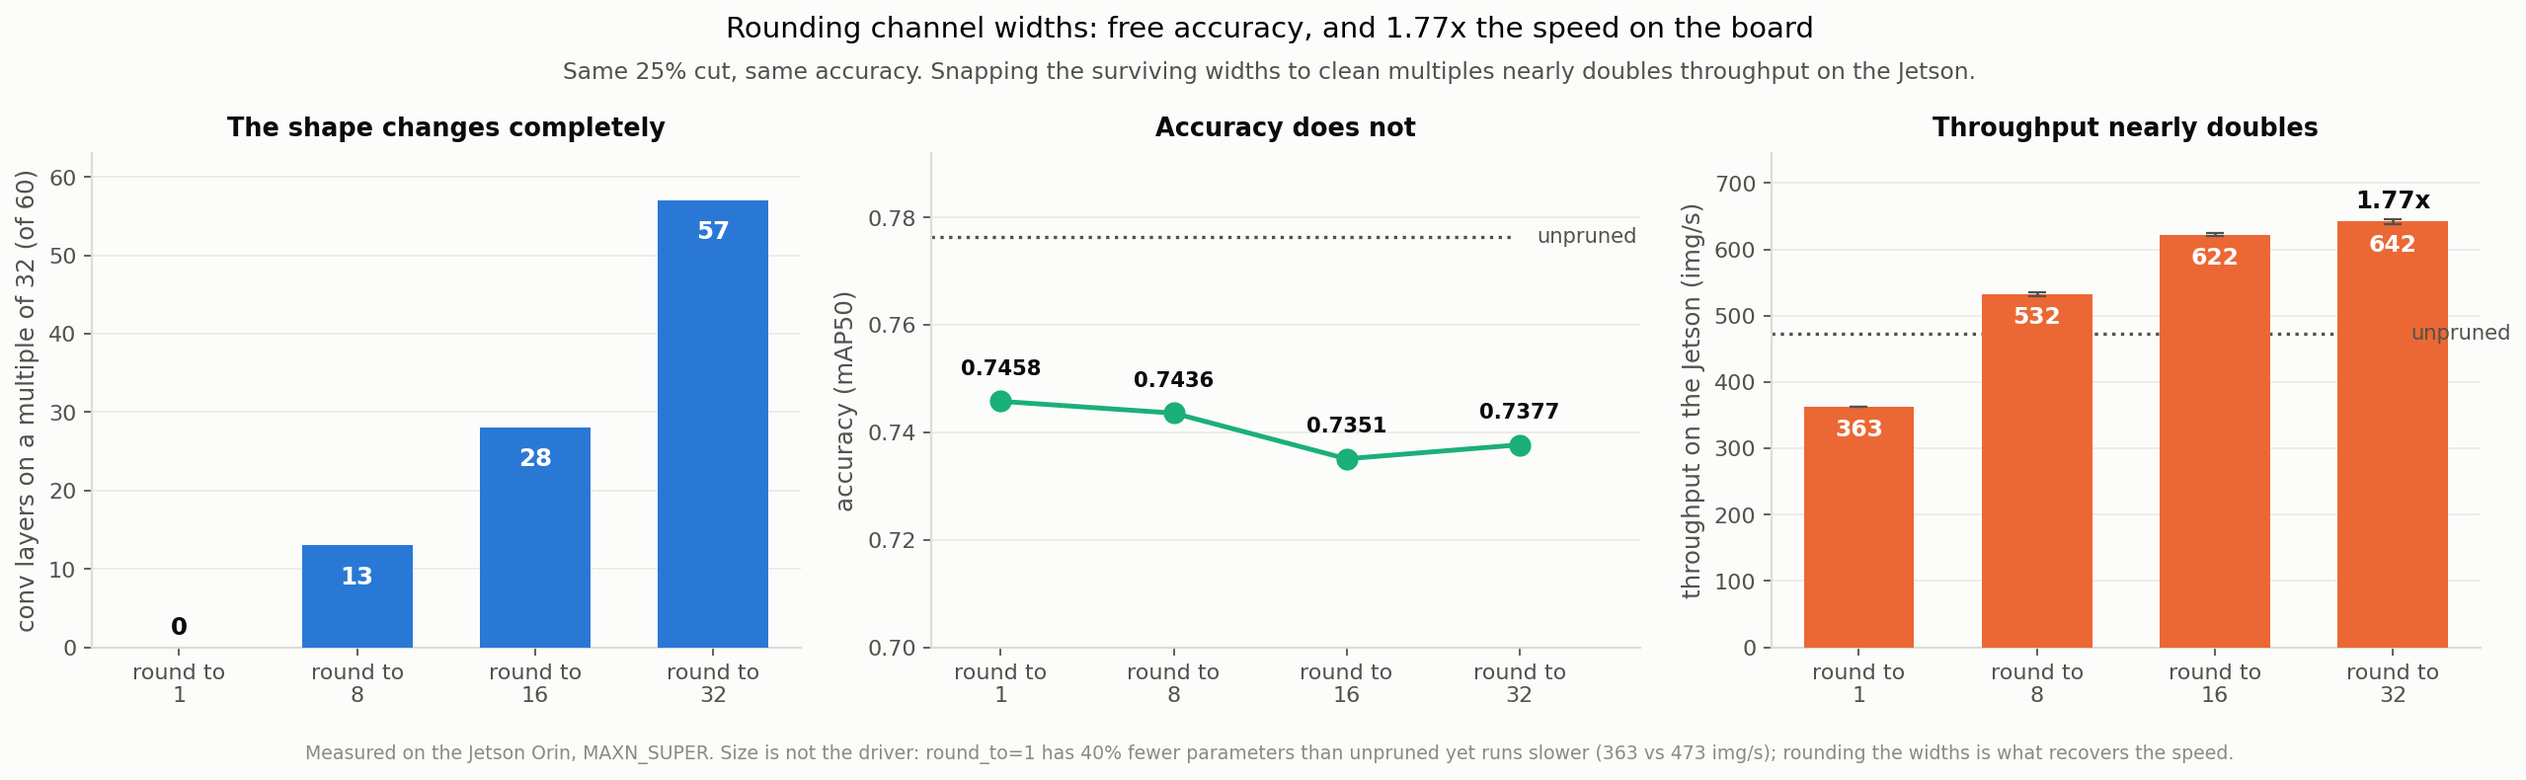
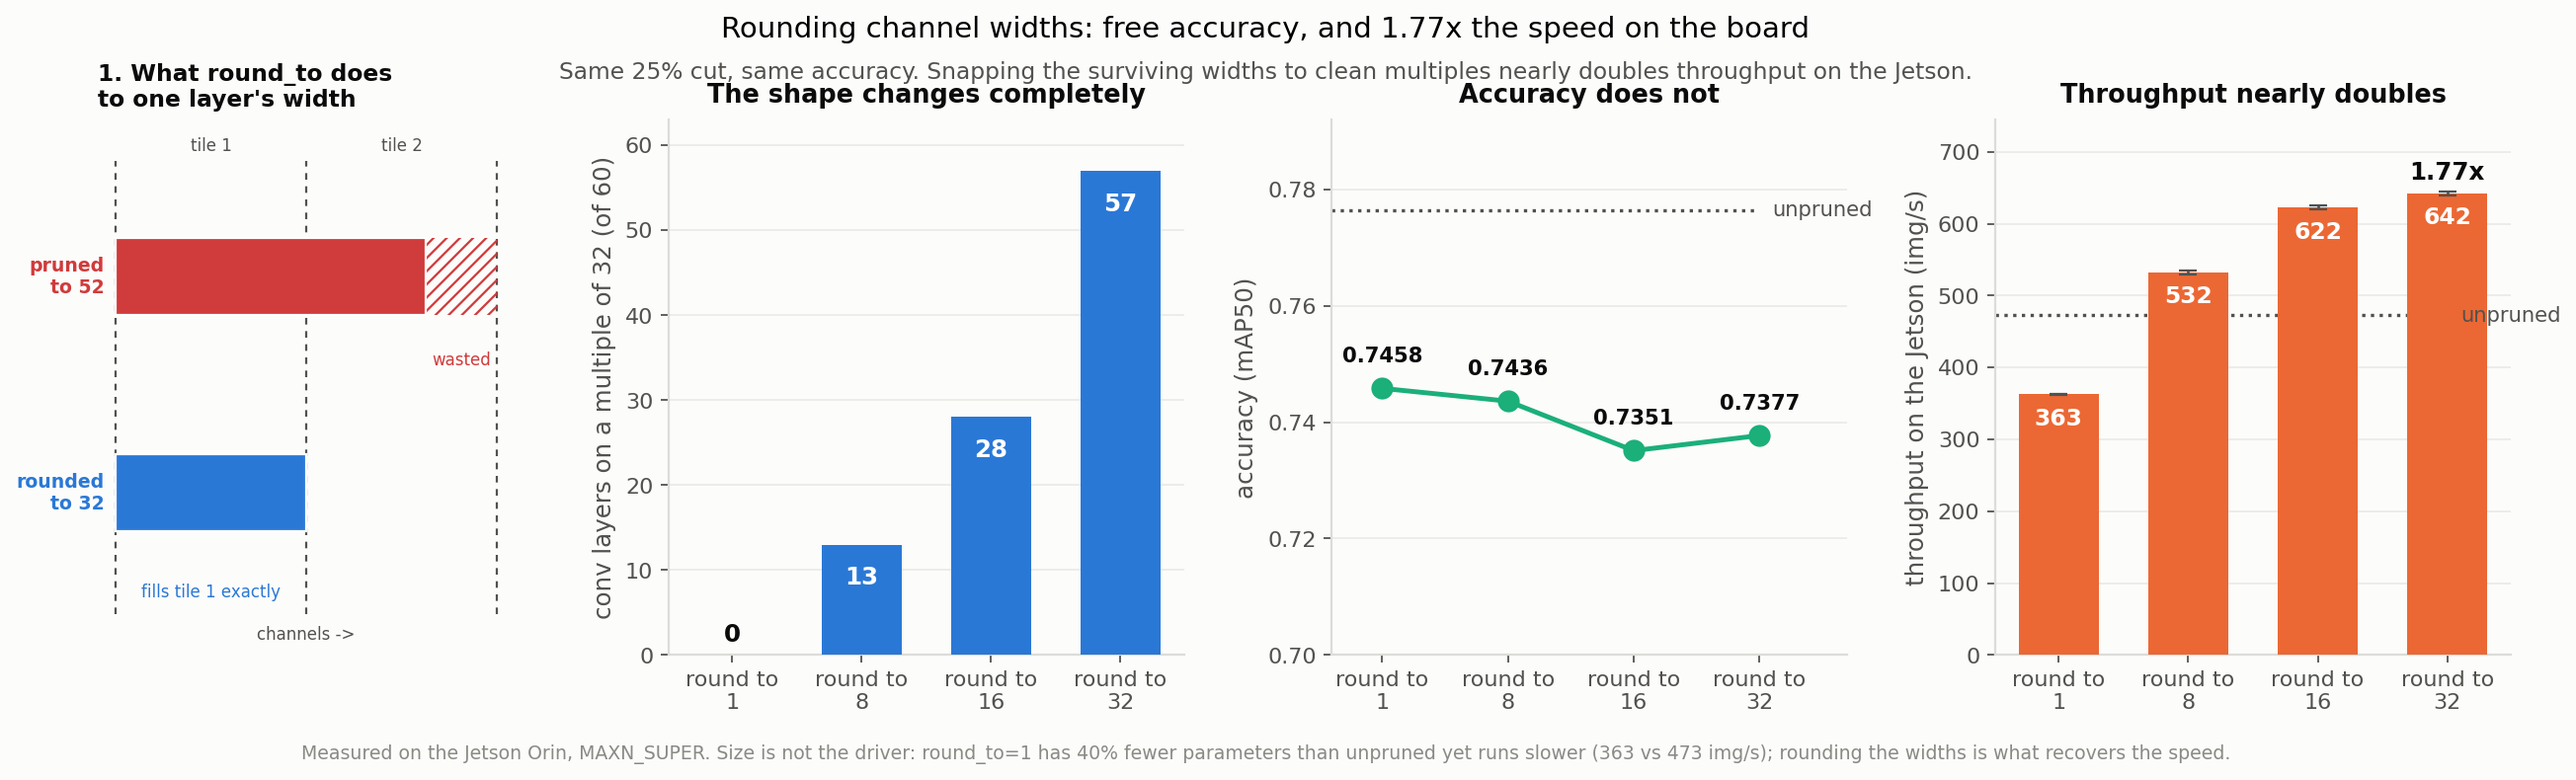
XP6 E3 figure: add a panel 1 showing what round_to does
A schematic now leads: a layer pruned to 52 channels spills past the 32-wide
tile the GPU works in and pays for a second tile it barely fills (hatched,
wasted), while rounding to 32 fills one tile exactly. That is the mechanism the
three data panels measure, shown before them.

diff --git a/analysis/make_figures.py b/analysis/make_figures.py
@@ -1540,14 +1540,47 @@ def fig_xp06e3(records) -> Path | None:
     labels = [f"round to\n{r}" for r in rs]
     have_speed = len(spd) == len(rs)
 
-    ncol = 3 if have_speed else 2
-    fig, axes = plt.subplots(1, ncol, figsize=(5.4 * ncol, 4.4))
+    from matplotlib.patches import Rectangle
+    ndata = 3 if have_speed else 2
+    fig = plt.figure(figsize=(4.7 + 5.0 * ndata, 4.4))
+    gs = fig.add_gridspec(1, ndata + 1, width_ratios=[0.82] + [1] * ndata, wspace=0.30)
+    sch = fig.add_subplot(gs[0, 0])
+    axes = [fig.add_subplot(gs[0, i + 1]) for i in range(ndata)]
     fig.suptitle("Rounding channel widths: free accuracy, and 1.77x the speed on the board",
                  y=1.03)
     style.subtitle(fig, "Same 25% cut, same accuracy. Snapping the surviving widths to clean "
                         "multiples nearly doubles throughput on the Jetson.", y=0.965)
 
-    # Panel 1: alignment.
+    # --- panel 1: what round_to does to one layer -------------------------
+    # A layer pruned to 52 channels spills past the 32-wide tile the GPU works
+    # in, paying for a second tile it barely fills; snapping to 32 fills one tile
+    # exactly. This is the mechanism the three data panels then measure.
+    sch.set_xlim(-3, 68); sch.set_ylim(-1.2, 9.2); sch.axis("off")
+    sch.set_title("1. What round_to does\nto one layer's width", fontsize=10.5, pad=6,
+                  loc="left")
+    for t in (0, 32, 64):                                   # tile boundaries
+        sch.plot([t, t], [-0.4, 8.4], color=style.INK_2, linewidth=1.0,
+                 linestyle=(0, (3, 3)), zorder=1)
+    sch.text(16, 8.6, "tile 1", ha="center", fontsize=7.5, color=style.INK_2)
+    sch.text(48, 8.6, "tile 2", ha="center", fontsize=7.5, color=style.INK_2)
+
+    def lane(y, width, colour, label):
+        sch.add_patch(Rectangle((0, y), width, 1.5, facecolor=colour, edgecolor="white",
+                                linewidth=1.0, zorder=3))
+        sch.text(-2, y + 0.75, label, ha="right", va="center", fontsize=8.5,
+                 fontweight="bold", color=colour)
+
+    lane(5.4, 52, style.RED, "pruned\nto 52")
+    # the wasted remainder of tile 2
+    sch.add_patch(Rectangle((52, 5.4), 12, 1.5, facecolor="none", edgecolor=style.RED,
+                            hatch="////", linewidth=0.0, zorder=2))
+    sch.text(58, 4.7, "wasted", ha="center", va="top", fontsize=7.5, color=style.RED)
+    lane(1.2, 32, style.BLUE, "rounded\nto 32")
+    sch.text(16, 0.2, "fills tile 1 exactly", ha="center", va="top", fontsize=7.5,
+             color=style.BLUE)
+    sch.text(32, -0.9, "channels ->", ha="center", fontsize=7.5, color=style.INK_2)
+
+    # Panel 1 (data): alignment.
     ax = axes[0]
     bars = ax.bar(xs, [acc[r]["aligned"] for r in rs], width=0.62, color=style.BLUE, zorder=3)
     for b, r in zip(bars, rs):
